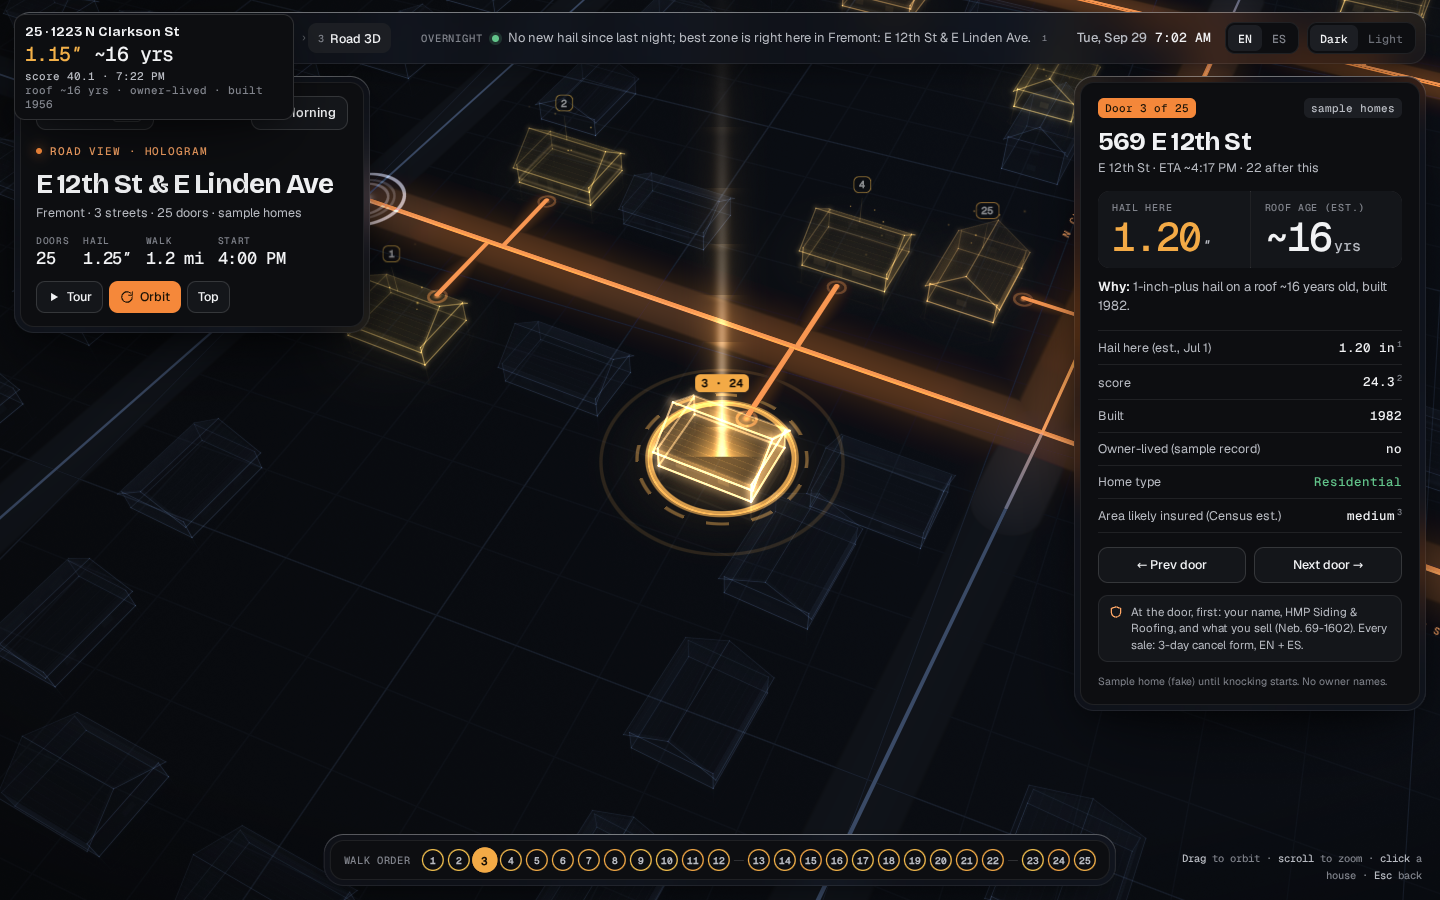
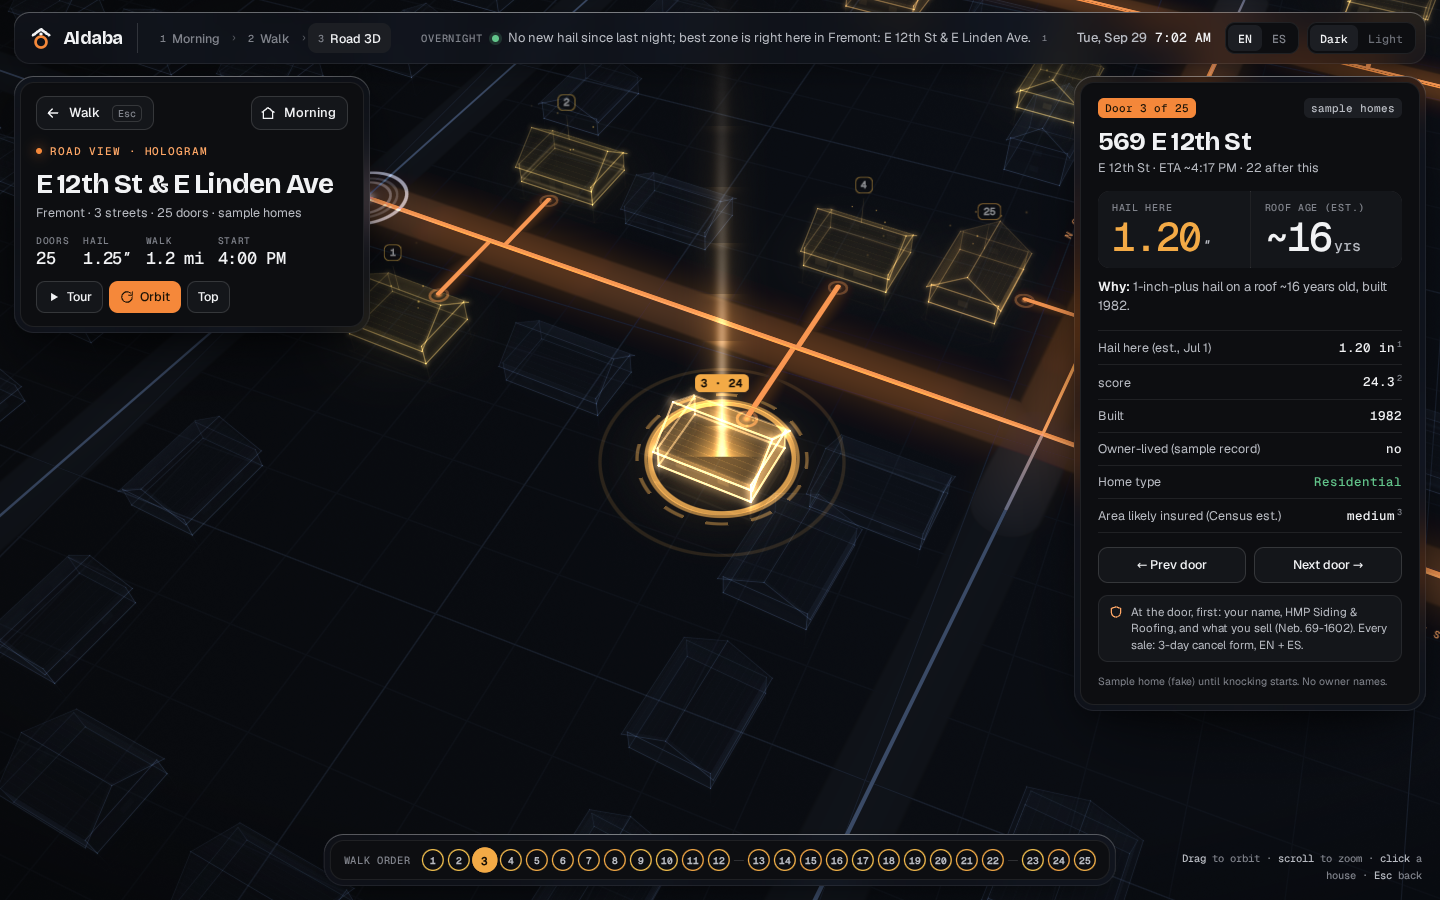
D: no hidden pin hover at load, road shots
Claude-Session: https://claude.ai/code/session_01FJMyDxiY6c91quZyf5Ctxc

diff --git a/docs/design/next-level/d/app.js b/docs/design/next-level/d/app.js
@@ -398,7 +398,7 @@ const svgNS='http://www.w3.org/2000/svg';
 const wsvg=document.createElementNS(svgNS,'svg');wsvg.setAttribute('width','100%');wsvg.setAttribute('height','100%');wsvg.style.cssText='position:absolute;inset:0;overflow:visible';
 const wpathG=document.createElementNS(svgNS,'path'),wpath=document.createElementNS(svgNS,'path');
 wpathG.setAttribute('fill','none');wpath.setAttribute('fill','none');wsvg.append(wpathG,wpath);pins.appendChild(wsvg);
-const mk=(cls,html,parent=pins)=>{const at=document.createElement('div');at.className='at';at.style.cssText='position:absolute;left:0;top:0;will-change:transform';at.innerHTML=html;const el=at.firstElementChild;el.classList.add(...cls.split(' '));parent.appendChild(at);return at};
+const mk=(cls,html,parent=pins)=>{const at=document.createElement('div');at.className='at';at.style.cssText='position:absolute;left:0;top:0;will-change:transform;visibility:hidden;opacity:0';at.innerHTML=html;const el=at.firstElementChild;el.classList.add(...cls.split(' '));parent.appendChild(at);return at};
 const zPins=ZONES.map((z,i)=>{const at=mk('pin'+(i===0?' pk':''),`<button aria-label="${esc(z.name)}"><span class="b">${z.rank}</span><span class="lb"></span></button>`);
   const b=at.firstElementChild;b.onclick=()=>zoneClick(z);b.onmouseenter=()=>hiZone(i,true);b.onmouseleave=()=>hiZone(i,false);return {at,z,lb:b.querySelector('.lb')}});
 const hqPin=mk('plc hq',`<div></div>`);
@@ -409,7 +409,7 @@ let walkEls=[],stEls=[],parkEl=null;
 function buildWalkOverlay(w){
   walkEls.forEach(e=>e.at.remove());stEls.forEach(e=>e.at.remove());parkEl&&parkEl.remove();
   walkEls=w.homes.map((h,k)=>{const at=mk('door',`<button style="--dc:${h.col}" aria-label="${esc(h.addr)}">${k+1}</button>`);const b=at.firstElementChild;
-    b.onclick=()=>selectDoor(k,true);b.onmouseenter=e=>{showTipDoor(k,e.clientX,e.clientY);hlRow(k,true)};b.onmouseleave=()=>{hideTip();hlRow(k,false)};return {at,b,h}});
+    b.onclick=()=>selectDoor(k,true);b.onmouseenter=e=>{if(S.view!=='walk')return;showTipDoor(k,e.clientX,e.clientY);hlRow(k,true)};b.onmouseleave=()=>{hideTip();hlRow(k,false)};return {at,b,h}});
   // street names: walk streets + the named streets that cross the walk (real Nebraska GIS)
   const c=w.center,seen=new Set(w.streets.map(s=>skey(s.n)));const lab=[];
   // walk streets: label just past the far end, off the line; cross streets: a vertex 90-220 m out, away from the doors

diff --git a/docs/design/next-level/d/index.html b/docs/design/next-level/d/index.html
@@ -75,6 +75,7 @@ body[data-view="road"] #map{opacity:0}
 #pins,#hl{position:fixed;inset:0;pointer-events:none;transition:opacity .4s var(--ease)}
 body[data-view="road"] #pins{opacity:0}
 body:not([data-view="road"]) #hl{opacity:0}
+body[data-view="road"] #pins *{pointer-events:none!important}
 .vig{position:fixed;inset:0;pointer-events:none;background:radial-gradient(120% 90% at 55% 45%,transparent 55%,rgba(0,0,0,.5) 100%)}
 [data-theme="light"] .vig{background:radial-gradient(120% 90% at 55% 45%,transparent 62%,rgba(120,110,90,.14) 100%)}
 
